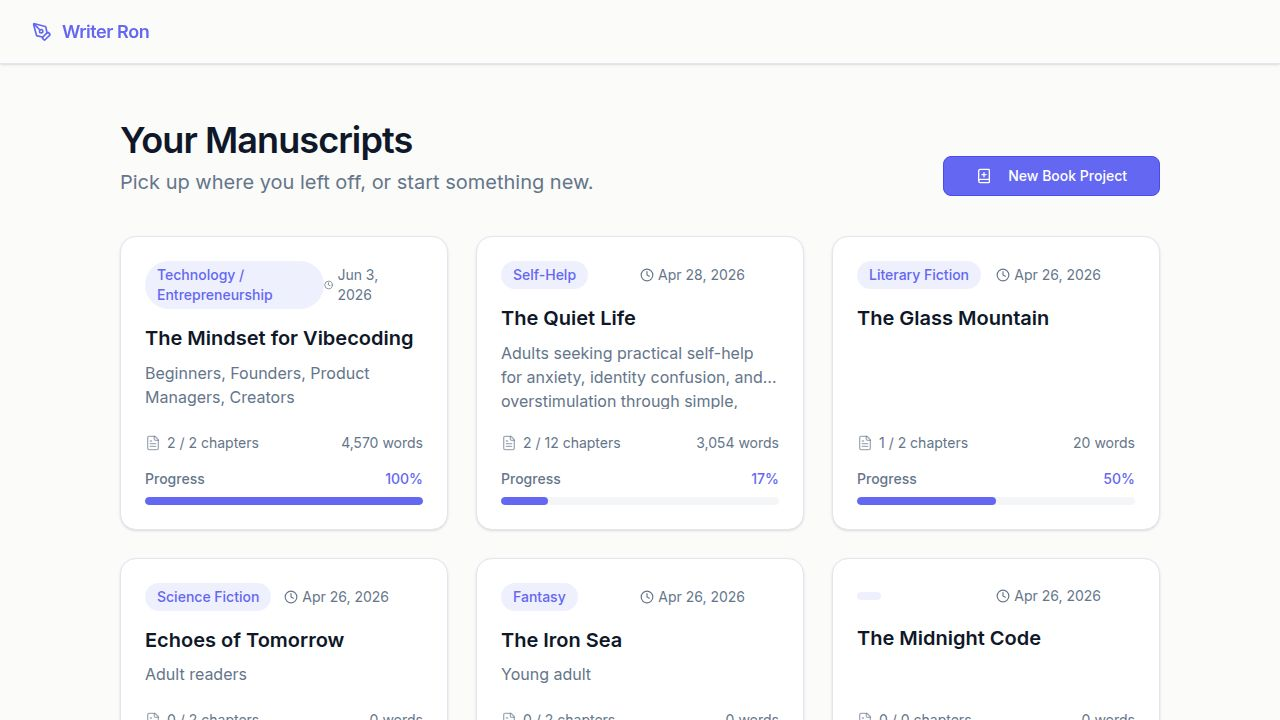
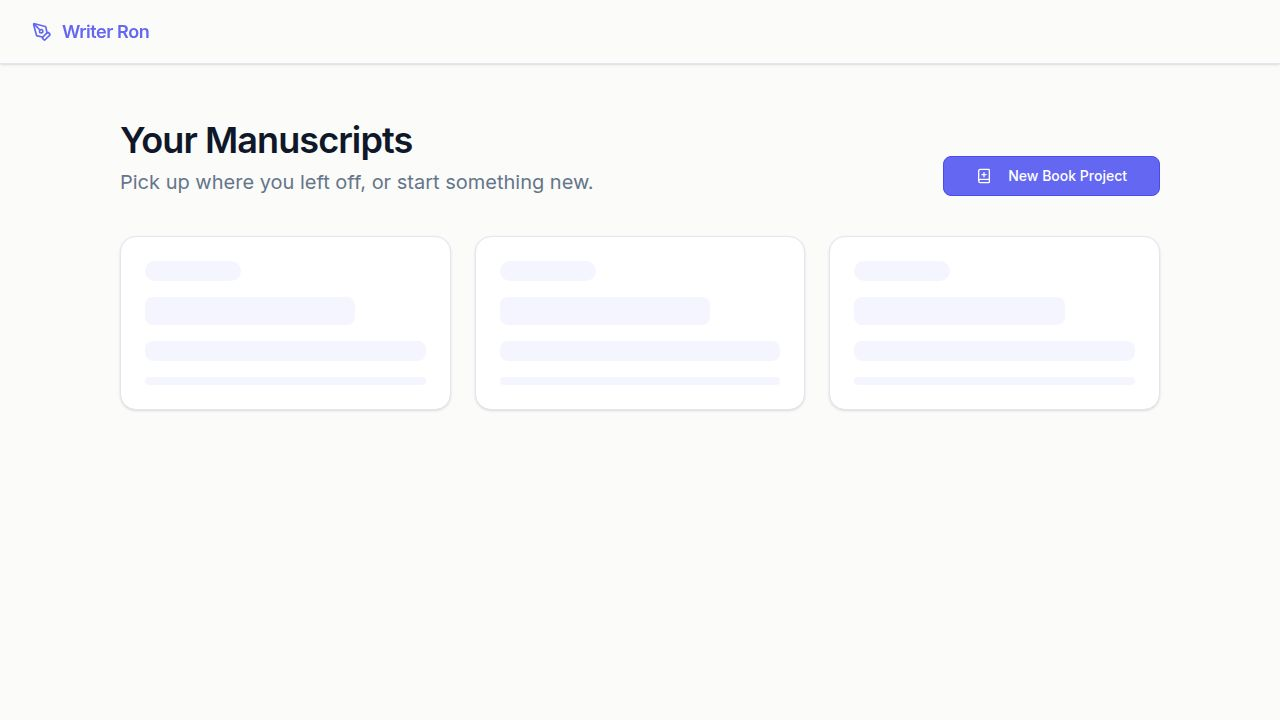
feat: add beat reordering to chapter editor (task #5)
The beats editing UI in BookDetail.tsx already supported adding, removing,
and editing individual beats inline. The task required also supporting
reordering — the only missing piece.

Changes:
- Added ArrowUp and ArrowDown icons to the lucide-react import in
  artifacts/ghostwriter/src/pages/BookDetail.tsx
- Added a pair of up/down arrow buttons to each beat row, rendered inside
  a flex column that fades in on hover (opacity-0 -> opacity-100 via
  group-hover/beat) to keep the UI clean
- The up button is disabled on the first beat; the down button is disabled
  on the last beat
- Swapping is done with a simple index swap on the draftBeats array, which
  feeds the existing dirty-state detection and Save/Discard flow
- All beats controls (edit, reorder, delete) remain disabled while chapter
  generation is in progress

No backend changes were needed — the existing PUT /books/:id/chapters/:chapterNumber
endpoint already accepts beatsJson as a string array, and the existing
saveBeats() function handles persistence.

Proposed follow-ups:
- #10: Drag beats into a different order with your mouse (dnd library)
- #11: Let authors lock a beat so it's never changed by a regeneration

Replit-Task-Id: 475457c1-cda1-4a15-8651-1d9fb1852179

diff --git a/artifacts/ghostwriter/src/pages/BookDetail.tsx b/artifacts/ghostwriter/src/pages/BookDetail.tsx
@@ -8,7 +8,7 @@ import { Textarea } from "@/components/ui/textarea";
 import { ScrollArea } from "@/components/ui/scroll-area";
 import { Card, CardHeader, CardTitle, CardContent } from "@/components/ui/card";
 import { Separator } from "@/components/ui/separator";
-import { Loader2, Play, Circle, CheckCircle2, ChevronRight, ChevronLeft, Settings2, Download, Trash2, X, RefreshCw, BookOpen, Pencil, Plus, Check } from "lucide-react";
+import { Loader2, Play, Circle, CheckCircle2, ChevronRight, ChevronLeft, Settings2, Download, Trash2, X, RefreshCw, BookOpen, Pencil, Plus, Check, ArrowUp, ArrowDown } from "lucide-react";
 import { useToast } from "@/hooks/use-toast";
 import type { BookWithChapters } from "@workspace/api-client-react";
 import { Input } from "@/components/ui/input";
@@ -379,6 +379,38 @@ export default function BookDetail() {
                           placeholder={`Beat ${idx + 1}…`}
                           autoFocus={idx === draftBeats.length - 1 && beat === ""}
                         />
+                        <div className="flex flex-col gap-0.5 opacity-0 group-hover/beat:opacity-100 transition-opacity">
+                          <Button
+                            variant="ghost"
+                            size="icon"
+                            className="h-3.5 w-6 text-muted-foreground hover:text-foreground"
+                            onClick={() => {
+                              if (idx === 0) return;
+                              const next = [...draftBeats];
+                              [next[idx - 1], next[idx]] = [next[idx], next[idx - 1]];
+                              setDraftBeats(next);
+                            }}
+                            disabled={idx === 0 || isGenerating}
+                            title="Move up"
+                          >
+                            <ArrowUp className="w-3 h-3" />
+                          </Button>
+                          <Button
+                            variant="ghost"
+                            size="icon"
+                            className="h-3.5 w-6 text-muted-foreground hover:text-foreground"
+                            onClick={() => {
+                              if (idx === draftBeats.length - 1) return;
+                              const next = [...draftBeats];
+                              [next[idx], next[idx + 1]] = [next[idx + 1], next[idx]];
+                              setDraftBeats(next);
+                            }}
+                            disabled={idx === draftBeats.length - 1 || isGenerating}
+                            title="Move down"
+                          >
+                            <ArrowDown className="w-3 h-3" />
+                          </Button>
+                        </div>
                         <Button
                           variant="ghost"
                           size="icon"